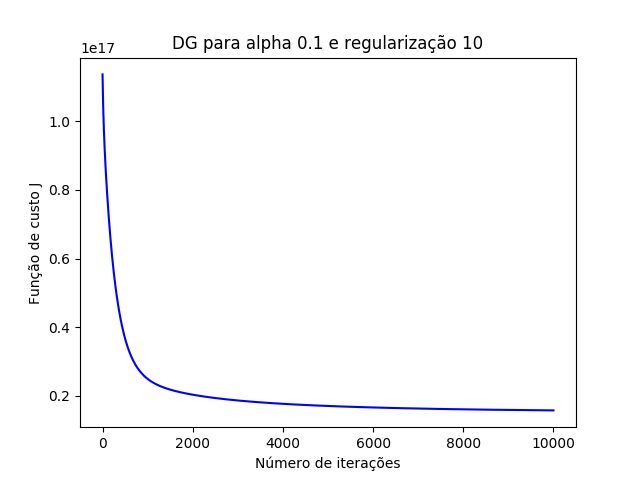
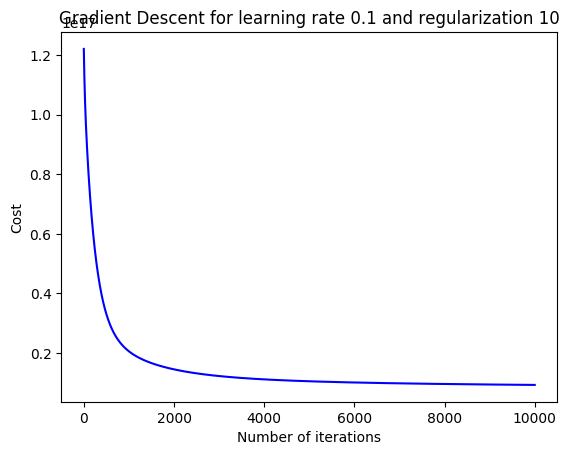
Added 2 categorical features (country, UN_subregion) using one hot encode

Changed region(s): [[0.0, 0.0308, 0.9842, 0.9846], [0.0596, 0.0923, 0.0895, 0.1538]]

diff --git a/Data/FilterDataSet.py b/Data/FilterDataSet.py
@@ -4,7 +4,7 @@ import numpy as np
 import pandas as pd
 import tensorflow as tf
 import matplotlib.pyplot as plt
-from sklearn.preprocessing import MinMaxScaler
+from sklearn.preprocessing import MinMaxScaler, OneHotEncoder
 
 # Import data
 data = pd.read_csv('NewNFA.csv')
@@ -12,6 +12,13 @@ data = pd.read_csv('NewNFA.csv')
 # Drop unneeded features
 data = data.drop(['ISO alpha-3 code'], 1)
 data = data.drop(['UN_region'], 1)
+
+# categorical features with one hot enconde
+country = data['country'].values
+UN_subregion = data['UN_subregion'].values
+enc = OneHotEncoder(handle_unknown='ignore')
+country_enc = enc.fit_transform([[x] for x in country]).toarray()
+UN_subregion_enc = enc.fit_transform([[x] for x in country]).toarray()
 
 # Drop World rows
 data = data[data.UN_subregion != 'World']
@@ -26,6 +33,10 @@ for country in data.country.unique():
 
     countryData = countryData.interpolate(method='linear', limit_direction='both')
     data.update(countryData)
+
+# reinsert one hot encoded features
+data = pd.concat([data, pd.DataFrame(country_enc, columns=['country' + str(i) for i in range(country_enc.shape[1])])], axis=1)
+data = pd.concat([data, pd.DataFrame(UN_subregion_enc, columns=['UN_subregion' + str(i) for i in range(country_enc.shape[1])])], axis=1)
 
 # remove remaining nans
 data = data.dropna()

diff --git a/NeuralNetwork.py b/NeuralNetwork.py
@@ -106,7 +106,7 @@ mse_valid = []
 # mse_test = []
 
 # Run
-epochs = 200
+epochs = 50
 for e in range(epochs):
 
     # Minibatch training

diff --git a/README.md b/README.md
@@ -23,8 +23,8 @@ New features were added and observations were removed to better adapt the projec
 Ordered dataset:
 https://drive.google.com/file/d/1JPrsYrrjg2Ni9nm6pgEr4XsJh4w_b-j3/view?usp=sharing
 
-Filtered dataset, with some features removed and altered(use this):
-https://drive.google.com/file/d/1IZ6PmkPdDEOa3_wSumpHr2oKiFWQab0R/view?usp=sharing
+Filtered dataset, with some features removed and changed (please use this):
+https://drive.google.com/open?id=17kaMBhm9Cl9LrT5WOXv7JXjWgN6RyMJp
 
 ________________________________________________________________________________
 
